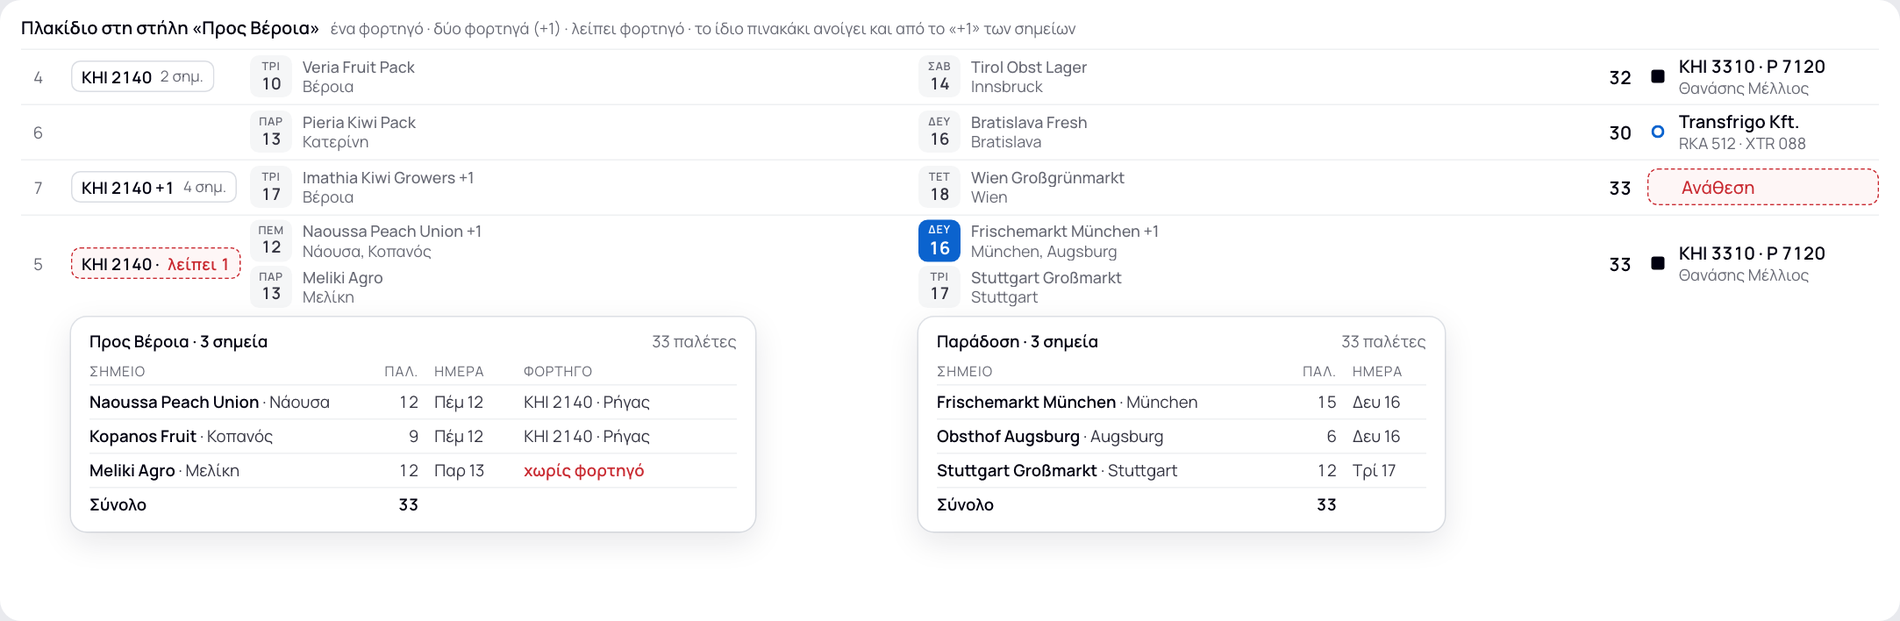
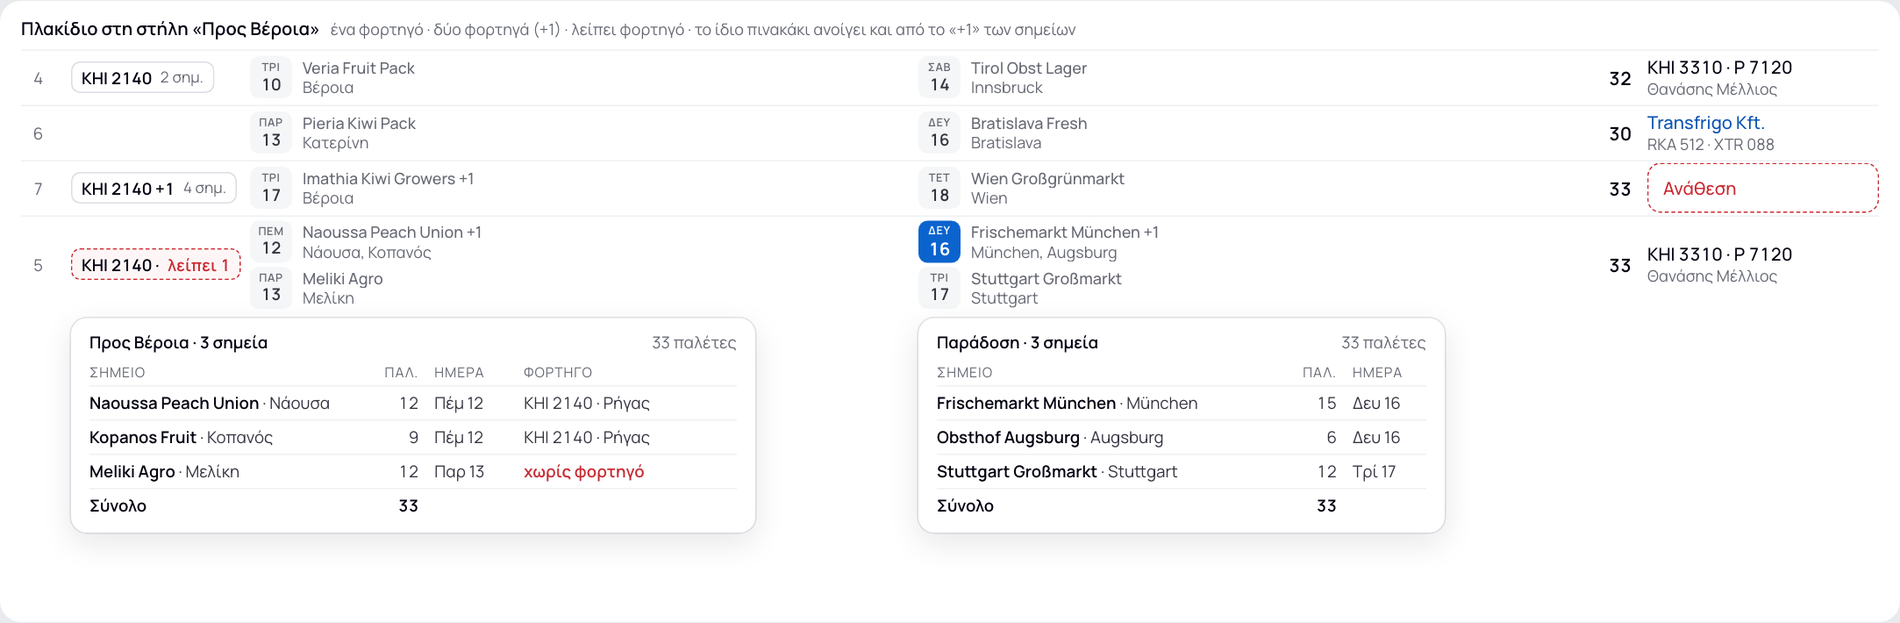
docs(redesign): Weekly International rebuilt on yesterday's airy base — assignment as plain text (partner in blue), calendar leaf per day, Veroia tile with hover table, full-width empty return; the dense variant and the assignment-box trials are withdrawn (owner 15/11)

diff --git a/docs/design/redesign-2026-11/index.html b/docs/design/redesign-2026-11/index.html
@@ -134,7 +134,6 @@ table.spec td b{color:var(--ink);font-weight:600}
 .side a em{margin-left:auto;font-style:normal;font-size:12px;font-weight:600;color:var(--red)}
 .side .me{margin-top:auto;display:flex;gap:10px;align-items:center;padding:12px 10px 0;color:var(--ink);font-weight:600}
 .side .me small{display:block;color:var(--help);font-weight:400;font-size:12px}
-.av{width:36px;height:36px;border-radius:50%;background:var(--bg);color:var(--ink);display:grid;place-items:center;font-size:13px;font-weight:600;flex:none}
 .rail .side{padding:18px 10px;align-items:center}
 .rail .side .lg{padding:0 0 10px}.rail .side h4,.rail .side a span,.rail .side a em,.rail .side .me div,.rail .logo.full{display:none}
 .logo.mark{display:none}.rail .logo.mark{display:block}
@@ -468,20 +467,20 @@ table.spec td b{color:var(--ink);font-weight:600}
 .day.past .br:not(.need)>.asb{background:#F3F4F6}.day.past .br:not(.need)>.asb.p{background:#F0F5FD}
 /* dense weekly study (owner 15/11: 30-50 loads a week; assignment box redrawn; Veroia shows its loading places; hard cases) */
 .cx{background:var(--bg);border-radius:16px;padding:0}#agopts.cx{background:#fff;padding:14px 16px}
-.cx .bh,.cx .br{grid-template-columns:30px 132px minmax(0,1.25fr) minmax(0,1.15fr) 40px 176px minmax(0,1.25fr) minmax(0,1.15fr) 40px 132px 22px;gap:0 10px;padding:0 14px 0 8px}
-.cx .bh{height:26px;margin-top:0}
-.cx .day{background:#fff;margin-top:6px;padding:1px 0 2px;border-radius:12px}
-.cx .day>h3{font-size:13.5px;padding:5px 16px 2px;gap:10px}.cx .day.none>h3{font-size:13px;padding:3px 16px}
-.cx .br{min-height:38px;font-size:13px}.cx .br+.br::before{left:14px;right:14px;border-top-color:#E6E7EB}
+.cx .bh,.cx .br,#f5 .cx .bh,#f5 .cx .br{grid-template-columns:28px 100px minmax(0,1.3fr) minmax(0,1.2fr) 32px 168px minmax(0,1.3fr) minmax(0,1.2fr) 32px 100px 22px;gap:0 12px;padding:0 18px 0 12px}
+.cx .bh{height:34px;margin-top:6px}
+.cx .day{margin-top:10px}
+
+.cx .br{min-height:48px;font-size:13.5px}.cx .br+.br::before{left:14px;right:14px;border-top-color:#E6E7EB}
 .cx .br .two b{font-size:13.5px;line-height:17px}.cx .br .two>span{font-size:12px;line-height:16px}
-.cx .br .no{height:22px;font-size:12.5px}
+
 .dx{font-style:normal;display:inline-block;font-size:11px;font-weight:600;color:var(--ink);background:#E3E5EA;border-radius:4px;padding:0 5px;line-height:15px;margin-right:6px;vertical-align:1px}
 .dx.t{background:var(--accent);color:#fff}
 .stk{display:flex;flex-direction:column;gap:6px;padding:6px 0;min-width:0}
 .stk .ln{display:block;font-size:12.5px;line-height:17px;color:var(--help);white-space:nowrap;overflow:hidden;text-overflow:ellipsis}.stk .ln b{font-weight:600;color:var(--ink)}.stk .ln em,.vz em{font-style:normal;color:var(--red);font-weight:600}
 .pn{font-weight:600;color:var(--ink);font-size:14px;text-align:right;display:block;white-space:nowrap}.pn.o{color:var(--red)}.pn sup{font-size:10px;font-weight:700}
 .cx .slot.a{grid-column:span 3;height:28px;border-radius:6px;justify-self:stretch;width:auto;font-size:12.5px;margin-right:0}
-.cx .sub2{font-size:12.5px}.cx .br.subr{min-height:22px;margin-top:-4px}
+.cx .br.subr{min-height:28px;margin-top:-6px}
 .ag{display:flex;flex-direction:column;justify-content:center;min-width:0;border-radius:6px;padding:2px 9px;min-height:34px}
 .ag b{display:block;font-size:13.5px;font-weight:600;line-height:17px;color:var(--ink);white-space:nowrap;overflow:hidden;text-overflow:ellipsis}.ag b svg.lucide{width:13px;height:13px;margin-right:5px;vertical-align:-2px}
 .ag span{display:block;font-size:12px;line-height:15px;color:var(--help);white-space:nowrap;overflow:hidden;text-overflow:ellipsis}
@@ -496,54 +495,33 @@ table.spec td b{color:var(--ink);font-weight:600}
 /* trial sheets (owner 15/11): assignment box, day, Veroia tile */
 .lab{display:grid;grid-template-columns:repeat(2,minmax(0,1fr));gap:14px;margin-bottom:18px}.lab.d3{grid-template-columns:repeat(3,minmax(0,1fr))}.lab.one{grid-template-columns:minmax(0,1fr)}
 .lc{background:#fff;border-radius:16px;padding:12px 16px 8px}.lc h4{font-size:13.5px;font-weight:600;color:var(--ink);margin-bottom:6px;display:flex;gap:8px;align-items:baseline}.lc h4 small{font-weight:400;color:var(--help);font-size:12px}
-.lr{display:grid;grid-template-columns:minmax(0,1fr) 176px minmax(0,1fr);gap:0 14px;align-items:center;min-height:42px;border-top:1px solid #EEF0F2}
 .lc .two b{font-size:13.5px;line-height:17px}.lc .two>span{font-size:12px;line-height:16px}
 .qa{display:flex;align-items:center;gap:8px;min-width:0;min-height:34px}
 .qa .tx{min-width:0;flex:1}.qa .tx b{display:block;font-size:13.5px;font-weight:600;line-height:17px;color:var(--ink);white-space:nowrap;overflow:hidden;text-overflow:ellipsis}.qa .tx b svg.lucide{width:13px;height:13px;margin-right:5px;vertical-align:-2px}
 .qa .tx span{display:block;font-size:12px;line-height:15px;color:var(--help);white-space:nowrap;overflow:hidden;text-overflow:ellipsis}
 .qa.n .tx b{color:var(--red)}.qa svg.lucide{width:13px;height:13px}
-.plt{font-style:normal;display:inline-block;height:18px;line-height:16px;padding:0 5px 0 10px;border:1px solid #B9BDC7;border-radius:4px;font-size:12px;font-weight:700;letter-spacing:.02em;color:var(--ink);background:linear-gradient(90deg,#2447B8 0 5px,#fff 5px);margin-right:4px;font-variant-numeric:tabular-nums;white-space:nowrap;vertical-align:top}
-.plt.t{background:#fff;padding-left:5px;font-weight:600;color:var(--body)}.plt.x{background:#fff;padding-left:5px;border-color:#D5D8DE;color:var(--body);font-weight:500}.plt.e{background:none;border:1.5px dashed var(--red);color:var(--red);padding:0 8px;line-height:15px}
-.qa.o1 .tx b{line-height:19px}.qa.o1 .tx span{margin-top:1px}
-.av{width:26px;height:26px;border-radius:50%;display:grid;place-items:center;font-size:10.5px;font-weight:700;flex:none;background:var(--ink);color:#fff}.av.p{border-radius:7px;background:#fff;box-shadow:inset 0 0 0 1.5px var(--accent);color:var(--accent)}.av.n{background:none;outline:1.5px dashed var(--red);outline-offset:-1.5px;color:var(--red)}
-.qa.o3{border-radius:9px;padding:2px 10px;box-shadow:inset 0 0 0 1px #C9CCD3}.qa.o3.p{box-shadow:inset 0 0 0 1px #8FB8EE}.qa.o3.p .tx b{color:var(--link)}.qa.o3.n{box-shadow:none;outline:1.5px dashed var(--red);outline-offset:-1.5px}
-.qa.o4{position:relative;flex-direction:column;align-items:center;gap:0;min-height:0}.qa.o4::before{content:'';position:absolute;left:-14px;right:-14px;top:11px;border-top:1.5px solid var(--ink)}
-.qa.o4 b{position:relative;background:#fff;padding:0 9px;font-size:13.5px;font-weight:600;line-height:22px;color:var(--ink);white-space:nowrap}.qa.o4 span{font-size:12px;line-height:15px;color:var(--help);white-space:nowrap}
-.qa.o4.p::before{border-color:var(--accent)}.qa.o4.p b{color:var(--link)}.qa.o4.n::before{border-top:1.5px dashed var(--red)}.qa.o4.n b{color:var(--red)}
-.qa.o5{border-radius:8px;padding:2px 10px;background:#E8EDF5}.qa.o5 .tx b{color:#0B1F3F}.qa.o5 .tx span{color:#51607A}.qa.o5.p{background:#E2F3EC}.qa.o5.p .tx b{color:#0B5C45}.qa.o5.p .tx span{color:#4B7A68}.qa.o5.n{background:var(--red-bg)}.qa.o5.n .tx b{color:var(--red)}
-.dot{width:8px;height:8px;border-radius:2px;background:var(--ink);flex:none}.dot.p{border-radius:50%;background:none;box-shadow:inset 0 0 0 2px var(--accent)}.dot.n{background:var(--red);border-radius:50%}
-.qa.o7{border-radius:8px;padding:2px 10px;background:#fff;box-shadow:0 0 0 1px rgba(0,0,16,.07),0 1px 2px rgba(0,0,16,.12)}.qa.o7.n{box-shadow:none;outline:1.5px dashed var(--red);outline-offset:-1.5px}
-.ktg{font-style:normal;font-size:9.5px;font-weight:700;letter-spacing:.08em;color:var(--accent);flex:none}
-.mk{width:18px;height:18px;border-radius:5px;display:grid;place-items:center;font-size:11px;font-weight:700;background:var(--ink);color:#fff;flex:none}.mk.p{background:#fff;color:var(--accent);box-shadow:inset 0 0 0 1.5px var(--accent)}.mk.n{background:none;color:var(--red);outline:1.5px dashed var(--red);outline-offset:-1.5px}
-.qa.o8{min-height:26px}.qa.o8 .tx{white-space:nowrap;overflow:hidden;text-overflow:ellipsis;font-size:13.5px}.qa.o8 .tx b{display:inline}.qa.o8 .tx span{display:inline;font-size:12.5px;margin-left:6px}
 .lf{width:30px;height:32px;border-radius:7px;box-shadow:inset 0 0 0 1px #DADDE3;display:flex;flex-direction:column;align-items:center;justify-content:center;flex:none;line-height:1}.lf i{font-style:normal;font-size:8.5px;font-weight:600;letter-spacing:.05em;color:var(--help)}.lf b{font-size:13.5px;font-weight:700;color:var(--ink);margin-top:3px;font-variant-numeric:tabular-nums}
 .lf.t{box-shadow:none;background:var(--accent)}.lf.t i,.lf.t b{color:#fff}.lf.s{box-shadow:none;background:var(--bg)}.lf.s.t{background:var(--accent)}
 .vrow{display:grid;grid-template-columns:26px 124px minmax(0,1fr) minmax(0,1fr) 34px 176px;gap:0 12px;align-items:center;min-height:42px;border-top:1px solid #EEF0F2;position:relative;font-size:13px}.vrow>.n{color:var(--help);text-align:center;font-size:12.5px}
 .vt2{display:inline-flex;align-items:center;gap:6px;height:24px;padding:0 8px;border-radius:7px;box-shadow:inset 0 0 0 1px #DADDE3;font-size:12.5px;font-weight:600;color:var(--ink);white-space:nowrap;justify-self:start;cursor:default}.vt2 i{font-style:normal;font-weight:500;color:var(--help);font-size:11.5px}.vt2.h{box-shadow:inset 0 0 0 1.5px var(--ink)}.vt2.r{color:var(--red);box-shadow:inset 0 0 0 1px #EDB9BC}
 .vpop{position:absolute;left:38px;top:calc(100% + 4px);z-index:5;background:#fff;border-radius:12px;box-shadow:var(--shadow-float);padding:10px 14px 8px;width:520px}.vpop h5{font-size:12.5px;font-weight:600;color:var(--ink);margin-bottom:4px;display:flex;justify-content:space-between}.vpop h5 span{font-weight:400;color:var(--help)}
 .vpop .vpr{display:grid;grid-template-columns:minmax(0,1.5fr) 36px 56px minmax(0,1.2fr);gap:0 12px;height:26px;align-items:center;font-size:12.5px;color:var(--body);border-top:1px solid #EEF0F2;white-space:nowrap}.vpop .vpr b{font-weight:600;color:var(--ink)}.vpop .vpr em{font-style:normal;color:var(--red);font-weight:600}.vpop .vpr>*{overflow:hidden;text-overflow:ellipsis}.vpop .vpr.vh{border:0;height:20px;font-size:10.5px;letter-spacing:.06em;text-transform:uppercase;color:var(--label)}
-.gm .ag{position:relative;padding:2px 8px 2px 26px;background:none;border-radius:8px;cursor:pointer}.gm .ag:hover{box-shadow:inset 0 0 0 1px #C9CCD3}
-.gm .ag::before{content:'';position:absolute;left:8px;top:6px;width:10px;height:10px;border-radius:2px;background:var(--ink)}
-.gm .ag.p::before{border-radius:50%;background:none;box-shadow:inset 0 0 0 1.5px var(--accent)}
-.gm .ag:has(b svg)::before{box-shadow:0 0 0 1.5px #fff,0 0 0 3px var(--accent)}.gm .ag b svg.lucide{display:none}
-.gm .ag.need,.gm .ag.am{padding-left:10px;outline:1.5px dashed var(--red);outline-offset:-1.5px;background:#FEF6F6}.gm .ag.need::before,.gm .ag.am::before{display:none}.gm .ag.am{outline-color:var(--amber-line);background:#FFFCF5}
-.qa.nd{border-radius:8px;padding:2px 10px;outline:1.5px dashed var(--red);outline-offset:-1.5px;background:#FEF6F6}.qa.nd .tx b{color:var(--red);font-weight:500}
-.lab.d3 .lr{grid-template-columns:minmax(0,1fr) 196px}
-.dot{width:10px;height:10px;margin:0 3px}.dot.p{box-shadow:inset 0 0 0 1.5px var(--accent)}.dot.x{box-shadow:0 0 0 1.5px #fff,0 0 0 3px var(--accent)}
-.qa.o3.p{box-shadow:inset 0 0 0 1.5px var(--accent)}.qa.o3.x .tx span{color:var(--link)}
-.mk{width:14px;height:14px;border-radius:4px}.qa.o8 .tx b{font-weight:600}
 .vt2.r{box-shadow:inset 0 0 0 1px #DADDE3}.vt2 i{font-size:11.5px;font-weight:400}
 .vpop{box-shadow:0 8px 24px rgba(15,23,42,.10),0 0 0 1px #E2E5EA}.vpop.b{left:auto;right:330px;width:400px}.vpop .vpr.tot{color:var(--ink);font-weight:600}.vpop.b .vpr{grid-template-columns:minmax(0,1fr) 36px 56px}
 .lns{display:flex;flex-direction:column;gap:3px;padding:3px 0;min-width:0}.qa.pt .tx b{display:flex;align-items:center}.qa.pt .tx b .el{overflow:hidden;text-overflow:ellipsis}.qa.pt .tx b .tag{flex:none}.lf{width:32px}
-.cx .qa,.lc .qa.pt{min-height:32px}.cx .br .qa .tx b{font-size:13.5px;font-weight:500}.lc .qa.pt .tx b{font-weight:500}
-.cx .qa.pt .tx b{color:var(--ink)}.cx .qa.pt .tx span{font-size:12px}.lf.s:not(.t) b{font-size:12.5px;font-weight:600;color:var(--body)}
-.gm .ag.need,.gm .ag.am{min-height:28px;padding-left:26px}.gm .ag.p b{color:var(--link)}.gm .ag.p::before{box-shadow:inset 0 0 0 2px var(--accent)}
-.gm .ag:has(b svg)::before{box-shadow:none;background:linear-gradient(135deg,var(--ink) 50%,var(--accent) 50%)}
-.dot.p{box-shadow:inset 0 0 0 2px var(--accent)}.dot.x{box-shadow:none;background:linear-gradient(135deg,var(--ink) 50%,var(--accent) 50%)}.qa.nd{padding-left:26px;min-height:28px}
-.cx .slot.a{height:26px;border:0;background:#FFF8E6}
+.cx .qa,.lc .qa.pt{min-height:32px}.cx .br .qa .tx b{font-size:14px;font-weight:500}.lc .qa.pt .tx b{font-weight:500}
+.cx .qa.pt .tx b{color:var(--ink)}.cx .qa.pt .tx span{font-size:12.5px}.lf.s:not(.t) b{font-size:12.5px;font-weight:600;color:var(--body)}
+.cx .slot.a{height:36px;border:1px solid var(--amber-line);background:#FFFBF2;border-radius:10px;font-size:13.5px}
 .vt2.r{box-shadow:none;outline:1.5px dashed var(--red);outline-offset:-1.5px;background:#FEF6F6;color:var(--ink)}.vt2 em{font-style:normal;color:var(--red);font-weight:600}
 .pn{position:relative}.pn sup{position:absolute;left:100%;top:-3px;margin-left:1px}
 .vpop h5{margin-top:0}
+.gz .ag{background:#ECEDF1;border-radius:10px;padding:3px 10px;min-height:36px}.gz .ag.p{background:var(--accent-bg)}.gz .ag.p b{color:var(--link)}
+.gz .ag.need,.gz .ag.am{background:none;outline:1.5px dashed var(--red);outline-offset:-1.5px}.gz .ag.am{outline-color:var(--amber-line)}
+.cx .day.past .br:not(.need)>.qa,.cx .day.past .br:not(.need)>.lns{opacity:.6}
+.gz .ag{background:none;padding:0;border-radius:10px}.gz .ag.p{background:none}.gz .ag b{font-size:14px}.gz .ag span{font-size:12.5px}
+.gz .ag.need,.gz .ag.am{padding:4px 12px;min-height:38px}
+.lc .asb{background:none;padding:0}.lc .asb.need{padding:4px 12px}
+.cx .vt2{padding:0 7px}.cx .qa{gap:7px}.cx .lf{width:30px}
 @media (prefers-reduced-motion:reduce){*,*::before,*::after{animation-duration:.01ms!important;animation-iteration-count:1!important;transition-duration:.01ms!important;transition-delay:0ms!important}
   .oc,.toast{transform:none}}
 @media print{.toc,.doc>header p{display:none}body{background:#fff}}
@@ -729,12 +707,8 @@ table.spec td b{color:var(--ink);font-weight:600}
   <h2>Εβδομαδιαίο Διεθνών</h2>
   <p class="lead">Ο διεθνής dispatcher, όλη τη βάρδια. Κάθε γραμμή είναι η δουλειά ενός φορτηγού: αριστερά η εξαγωγή, στη μέση ποιος την πάει, δεξιά η εισαγωγή με την οποία γυρίζει. Οι ημέρες μένουν πάντα ανοιχτές.</p>
   <div class="fit"><div class="frame" id="f5"></div></div>
-  <div class="cap"><h3>Ανάθεση: οι τρεις που έμειναν</h3><span>από οκτώ δοκιμές και δύο γύρους κριτών (owner 15/11)</span></div>
-  <div class="lab d3" id="labA"></div>
   <div class="cap"><h3>Βέροια και πολλά σημεία: πλακίδιο και πινακάκι</h3><span>η γραμμή δεν ψηλώνει ποτέ· το πινακάκι ανοίγει με το ποντίκι</span></div>
   <div class="lab one" id="labV"></div>
-  <div class="cap"><h3>Πυκνός πίνακας με την πρόταση</h3><span id="cxn1"></span></div>
-  <div class="cx gm" id="cx1" style="margin-bottom:18px"></div>
   <div class="cap"><h3>Ό,τι ανοίγει από μια γραμμή</h3><span>groupage · μέσω Βέροιας · μενού (ίδιο για απλό φορτίο και groupage) · ανάθεση · ημέρες · όλα τα επόμενα · αλλαγή στον δρόμο</span></div>
   <div style="display:flex;gap:20px;flex-wrap:wrap;align-items:flex-start">
     <div class="pop" style="width:540px;padding:18px;animation:none"><div style="display:flex;align-items:center;gap:10px"><b style="font-size:16px;font-weight:600;color:var(--ink)">Groupage</b><span class="tag" style="margin:0">3 παραγγελίες</span><span class="sp" style="flex:1"></span><span class="num" style="font-weight:600;color:var(--ink)">33 / 33 παλ.</span></div>
@@ -1086,9 +1060,9 @@ const lfMany=a=>a.length>1?`<div class="lns">${a.map(x=>lfLn(x[1],'',x[0],x[2],x
  const stk=a=>{const g={};a.forEach(x=>(g[x[1]]=g[x[1]]||[]).push(x));return lfMany(Object.keys(g).map(d=>[d,g[d][0][0]+(g[d].length>1?` +${g[d].length-1}`:''),[...new Set(g[d].map(x=>x[2]))].join(', '),g[d].some(x=>x[4])&&/ 16$/.test(d)]))};
  const pn=n=>n>33?`<b class="pn num o">${n}<sup>+${n-33}</sup></b>`:`<b class="pn num">${n}</b>`;
  const ag=(a,b,k,i)=>`<div class="ag ${k||''}"><b class="num">${i?ic(i):''}${a}</b>${b?`<span>${b}</span>`:''}</div>`;
- const tile=(t,n,r,tt)=>`<span class="vt2 num ${r?'r':''}" title="${tt}">${t}${r?'':`<i>${n} σημ.</i>`}</span>`;
+ const tile=(t,n,r,tt)=>`<span class="vt2 num ${r?'r':''}" title="${tt}">${t}</span>`;
  const vz=(a,b,r)=>tile(r?'<em>λείπει 1</em>':a,b.split(' · ').length,r,b.replace(/<[^>]+>/g,''));
- const vzs=a=>{const tr=[...new Set(a.map(x=>x[1]).filter(Boolean))],miss=a.filter(x=>!x[1]).length;return tile((tr[0]||'')+(tr.length>1?` +${tr.length-1}`:'')+(miss?`${tr.length?' · ':''}<em>λείπει ${miss}</em>`:''),a.length,miss,a.map(x=>x[0]).join(' · '))};
+ const vzs=a=>{const tr=[...new Set(a.map(x=>x[1]).filter(Boolean))],miss=a.filter(x=>!x[1]).length;return tile(miss?`<em>λείπει ${miss}</em>`:tr[0]+(tr.length>1?` +${tr.length-1}`:''),a.length,miss,a.map(x=>x[0]).join(' · '))};
  const gap=t=>`<div class="slot a">${ic('undo-2')}Κενό γύρισμα · ${t}<span class="plus" style="border-color:var(--amber-line);color:var(--amber);background:none">${ic('plus')}</span></div>`;
  const E='<span></span>',E3=E+E+E;
  const row=([n,vl,L,as,R,vr,cls=''])=>`<div class="br ${cls}"><button class="no num">${n}</button>${vl||E}${L||E3}${as}${R||E3}${vr||E}<span class="send">${ic('send')}</span></div>`;
@@ -1125,23 +1099,12 @@ const lfMany=a=>a.length>1?`<div class="lns">${a.map(x=>lfLn(x[1],'',x[0],x[2],x
  ];
  const head=`<div class="bh lbl"><span></span><span>Προς Βέροια</span><span>Εξαγωγή · φόρτωση</span><span>Παράδοση</span><span style="text-align:right">Παλ.</span><span>Ανάθεση</span><span>Εισαγωγή · φόρτωση</span><span>Παράδοση</span><span style="text-align:right">Παλ.</span><span>Από Βέροια</span><span></span></div>`;
  const board=m=>{DM=m;return head+days().map(([t,c,r])=>`<section class="day ${c}"><h3>${t}</h3>${r.join('')}</section>`).join('')};
- $('cx1').innerHTML=board('num');
- requestAnimationFrame(()=>{for(const [id,cap] of [['cx1','cxn1']]){const h=Math.round($(id).getBoundingClientRect().height/($(id).getBoundingClientRect().width/$(id).offsetWidth||1));$(cap).textContent=`14 φορτία · μια γραμμή ψηλώνει μόνο όταν το φορτίο έχει σημεία σε δύο ημέρες · ${h}px ύψος`}});
+ /* the Weekly International screen itself now carries this board: what the owner has settled so far */
+ {const bh=$('f5').querySelector('.bh'),old=bh.nextElementSibling,box=document.createElement('div');box.className='cx gz';box.style.cssText='flex:1;min-height:0;overflow:hidden;background:none;margin-top:-10px;padding:0 2px';box.innerHTML=board('num');old.remove();bh.replaceWith(box)}
 })();
 /* trial sheets: the same rows drawn with each candidate, to be judged side by side */
 (function(){
- const K={o:['ΚΗΙ 3310 · Ρ 7120','Θανάσης Μέλλιος','ΘΜ'],p:['Transfrigo Kft.','RKA 512 · XTR 088'],x:['ΚΗΙ 4521','→ Transfrigo · από Wien','ΠΡ'],n:['Ανάθεση','']};
- const tx=(a,b,i)=>`<div class="tx"><b class="num">${i?ic(i):''}${a}</b>${b?`<span>${b}</span>`:''}</div>`;
- const kc=k=>k==='p'?'p':k==='n'?'n':'';
- const A=(v,k)=>{const [a,b]=K[k];
-  if(k==='n')return `<div class="qa nd"><div class="tx"><b>Ανάθεση</b></div></div>`;
-  if(v===6)return `<div class="qa"><span class="dot ${k==='p'?'p':k==='x'?'x':''}"></span>${tx(a,b)}</div>`;
-  if(v===3)return `<div class="qa o3 ${k==='p'?'p':k==='x'?'x':''}">${tx(a,b,k==='x'?'shuffle':'')}</div>`;
-  return `<div class="qa o8"><span class="mk ${k==='p'?'p':''}" ${k==='x'?'style="box-shadow:0 0 0 1.5px #fff,0 0 0 3px var(--accent)"':''}></span><div class="tx"><b class="num">${a}</b><span>${k==='o'?'Μέλλιος':k==='p'?'RKA 512':'→ Transfrigo'}</span></div></div>`};
  const two=(a,b)=>{const x=b.match(/^(\S+ \d+) · (.*)$/);return x?lfLn(a,'',x[1],x[2]):`<div class="two"><b><span class="el">${a}</span></b><span>${b}</span></div>`};
- const LR=[['o',two('Veria Fruit Pack','Τρί 10 · Βέροια'),two('Alpina Fresh S.r.l.','Δευ 16 · Modena')],['p',two('Pieria Kiwi Pack','Παρ 13 · Κατερίνη'),two('Emilia Formaggi','Δευ 23 · Parma')],['x',two('Pella Peach Coop','Τρί 17 · Σκύδρα'),'<span></span>'],['n',two('Messinia Olive Coop','Τρί 17 · Μεσσήνη'),'<span></span>']];
- const AT=[[6,'Α · Σήμα','τετράγωνο = δικό μας, κύκλος = συνεργάτης· κανένα πλαίσιο'],[3,'Β · Λεπτό περίγραμμα','γκρι γραμμή δικό μας, μπλε γραμμή συνεργάτης'],[8,'Γ · Μία σειρά','η πιο χαμηλή· οδηγός μόνο με επώνυμο']];
- $('labA').innerHTML=AT.map(([v,t,n])=>`<div class="lc"><h4>${t}<small>${n}</small></h4>${LR.map(([k,l])=>`<div class="lr">${l}${A(v,k)}</div>`).join('')}</div>`).join('');
  const vr=(n,tile,l,d,pal,as,pop)=>`<div class="vrow"><span class="n num">${n}</span>${tile}${l}${d}<b class="pn num">${pal}</b>${as}${pop||''}</div>`;
  const pop=`<div class="vpop"><h5>Προς Βέροια · 3 σημεία<span>33 παλέτες</span></h5><div class="vpr vh"><span>Σημείο</span><span style="text-align:right">Παλ.</span><span>Ημέρα</span><span>Φορτηγό</span></div>
   <div class="vpr"><span><b>Naoussa Peach Union</b> · Νάουσα</span><span class="num" style="text-align:right">12</span><span>Πέμ 12</span><span class="num">ΚΗΙ 2140 · Ρήγας</span></div>
@@ -1154,10 +1117,10 @@ const lfMany=a=>a.length>1?`<div class="lns">${a.map(x=>lfLn(x[1],'',x[0],x[2],x
   <div class="vpr"><span><b>Stuttgart Großmarkt</b> · Stuttgart</span><span class="num" style="text-align:right">12</span><span>Τρί 17</span></div>
   <div class="vpr tot"><span>Σύνολο</span><span class="num" style="text-align:right">33</span><span></span></div></div>`;
  $('labV').innerHTML=`<div class="lc" style="padding-bottom:235px"><h4>Πλακίδιο στη στήλη «Προς Βέροια»<small>ένα φορτηγό · δύο φορτηγά (+1) · λείπει φορτηγό · το ίδιο πινακάκι ανοίγει και από το «+1» των σημείων</small></h4>
-  ${vr(4,'<span class="vt2 num">ΚΗΙ 2140<i>2 σημ.</i></span>',two('Veria Fruit Pack','Τρί 10 · Βέροια'),two('Tirol Obst Lager','Σάβ 14 · Innsbruck'),32,A(6,'o'))}
-  ${vr(6,'<span></span>',two('Pieria Kiwi Pack','Παρ 13 · Κατερίνη'),two('Bratislava Fresh','Δευ 16 · Bratislava'),30,A(6,'p'))}
-  ${vr(7,'<span class="vt2 num">ΚΗΙ 2140 +1<i>4 σημ.</i></span>',two('Imathia Kiwi Growers +1','Τρί 17 · Βέροια'),two('Wien Großgrünmarkt','Τετ 18 · Wien'),33,A(6,'n'))}
-  ${vr(5,'<span class="vt2 r h num">ΚΗΙ 2140 · <em>λείπει 1</em></span>',lfMany([['Πέμ 12','Naoussa Peach Union +1','Νάουσα, Κοπανός'],['Παρ 13','Meliki Agro','Μελίκη']]),lfMany([['Δευ 16','Frischemarkt München +1','München, Augsburg',1],['Τρί 17','Stuttgart Großmarkt','Stuttgart']]),33,A(6,'o'),pop)}</div>`;
+  ${vr(4,'<span class="vt2 num">ΚΗΙ 2140<i>2 σημ.</i></span>',two('Veria Fruit Pack','Τρί 10 · Βέροια'),two('Tirol Obst Lager','Σάβ 14 · Innsbruck'),32,trk('ΚΗΙ 3310 · Ρ 7120','Θανάσης Μέλλιος'))}
+  ${vr(6,'<span></span>',two('Pieria Kiwi Pack','Παρ 13 · Κατερίνη'),two('Bratislava Fresh','Δευ 16 · Bratislava'),30,trk('Transfrigo Kft.','RKA 512 · XTR 088','p'))}
+  ${vr(7,'<span class="vt2 num">ΚΗΙ 2140 +1<i>4 σημ.</i></span>',two('Imathia Kiwi Growers +1','Τρί 17 · Βέροια'),two('Wien Großgrünmarkt','Τετ 18 · Wien'),33,need)}
+  ${vr(5,'<span class="vt2 r h num">ΚΗΙ 2140 · <em>λείπει 1</em></span>',lfMany([['Πέμ 12','Naoussa Peach Union +1','Νάουσα, Κοπανός'],['Παρ 13','Meliki Agro','Μελίκη']]),lfMany([['Δευ 16','Frischemarkt München +1','München, Augsburg',1],['Τρί 17','Stuttgart Großmarkt','Stuttgart']]),33,trk('ΚΗΙ 3310 · Ρ 7120','Θανάσης Μέλλιος'),pop)}</div>`;
 })();
 
 /* ---------- screen 3: order form, a sheet over the page. Every control of today's form (orders_intl.js) has a place here. ---------- */

diff --git a/docs/design/redesign-2026-11/parity/README.md b/docs/design/redesign-2026-11/parity/README.md
@@ -155,4 +155,8 @@
 | Βέροια | Πρόταση, περιμένει τον owner | Οι δύο στήλες μένουν, με ένα μικρό πλακίδιο (πινακίδα, «+1» για δεύτερο φορτηγό, κόκκινο διακεκομμένο «λείπει 1»). Το ποντίκι ανοίγει πινακάκι: σημείο, παλέτες, ημέρα, φορτηγό. Το ίδιο πινακάκι ανοίγει από το «+1» των σημείων. Η γραμμή δεν ψηλώνει από τη Βέροια. |
 | Ανάθεση | Τρεις υποψήφιοι, περιμένει τον owner | Α σήμα (τετράγωνο δικό μας, μπλε κύκλος και μπλε όνομα συνεργάτης, δίχρωμο τετράγωνο αλλαγή στον δρόμο), Β λεπτό περίγραμμα, Γ μία σειρά. Και οι δύο κριτές προκρίνουν το Α. Χωρίς φορτηγό: κόκκινο διακεκομμένο, ίδιο σε όλους. |
 
-Εικόνες: `shots/06-weekly-dense.png`, `shots/06-lab-assignment.png`, `shots/06-lab-veroia.png`· ο πρώτος γύρος στα `shots/06-lab-round1-*.png`. Ο κύριος πίνακας (#f5) και τα Εθνικά δεν έχουν αλλάξει ακόμη.
+Εικόνες: `shots/06-lab-assignment.png`, `shots/06-lab-veroia.png`· ο πρώτος γύρος στα `shots/06-lab-round1-*.png`. Ο κύριος πίνακας (#f5) και τα Εθνικά δεν έχουν αλλάξει ακόμη.
+
+### Εβδομαδιαίο Διεθνών, όπως στήθηκε μετά τη σύγκριση χθες / σήμερα (owner 15/11, βράδυ)
+
+Ο owner είπε για την πυκνή εκδοχή «το καταστρέψαμε» και, συγκρίνοντας το χθεσινό με το σημερινό Εθνικών, συμφώνησε με την πρόταση: η ευρύχωρη βάση του χθεσινού, ανάθεση χωρίς πλαίσιο (πινακίδα και οδηγός σε κείμενο, συνεργάτης με μπλε γράμματα), «Ανάθεση» και κενό γύρισμα σε όλο το πλάτος. Μένουν όσα είχε ήδη διαλέξει: φύλλο ημέρας με μία σειρά ανά ημέρα, πλακίδιο Βέροιας με πινακάκι στο ποντίκι, λευκές κάρτες ημέρας. Η πύκνωση (38px) αποσύρθηκε· οι δοκιμές πλαισίου ανάθεσης έφυγαν από τη σελίδα (μένει η εικόνα `shots/06-lab-assignment.png` ως ίχνος). Εικόνα: `shots/06-weekly-intl.png`. Τα Εθνικά δεν έχουν αλλάξει ακόμη.
